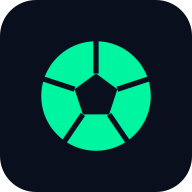
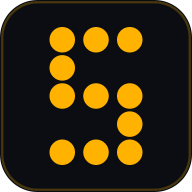
Identidade visual própria: 'Placar Eletrônico'
- Paleta enxuta com regras semânticas: âmbar #FFB300 (assinatura),
  azul-aço (lado B), verde só p/ vitória/acerto, vermelho p/ derrota,
  dourado-claro p/ placar exato — fim do arco-íris neon
- Logomarca própria: monograma 'S' em dot-matrix (pontos de letreiro
  de estádio) em SVG, do favicon ao ícone 512 do PWA
- Tipografia display: Archivo (no lugar da Space Grotesk)
- Fundo grafite de estádio à noite, auroras suaves âmbar/aço
- Gradientes, botões, scrollbar, glass hover e gráficos (ranking,
  janelas de gol, confederações, sedes) na nova paleta
- manifest do PWA com as novas cores; favicon novo (app/icon.png)

diff --git a/src/app/globals.css b/src/app/globals.css
@@ -1,26 +1,29 @@
 @import "tailwindcss";
 
 /* =========================================================
-   StudoWorldCup — Design System v2 "Futebol Futurista"
-   Dark glassmorphism · auroras neon · inner glow · bento
+   StudoWorldCup — Design System v3 "Placar Eletrônico"
+   Grafite de estádio à noite · âmbar de letreiro · dot-matrix
+   Regras: âmbar = marca/destaque · verde = vitória/acerto ·
+   vermelho = derrota/perigo · dourado-claro = placar exato.
    ========================================================= */
 
 :root {
   /* Base */
-  --background: #05070f;
-  --surface: #0b1020;
-  --surface-2: #111a30;
-  --foreground: #eaf0ff;
-  --muted: #8ea0c6;
-  --border: rgba(140, 160, 205, 0.14);
+  --background: #0b0d12;
+  --surface: #11141b;
+  --surface-2: #1a1f2a;
+  --foreground: #edede6;
+  --muted: #8c92a3;
+  --border: rgba(160, 170, 190, 0.14);
 
-  /* Acentos neon (identidade vibrante 2026) */
-  --brand: #00f5a0;     /* verde-esmeralda elétrico */
-  --brand-2: #2fb8ff;   /* azul ciano */
-  --accent: #ff2d78;    /* magenta */
-  --violet: #a779ff;    /* violeta */
-  --gold: #ffd24a;      /* dourado/troféu */
-  --danger: #ff5c6c;
+  /* Identidade */
+  --brand: #ffb300;     /* âmbar de painel — assinatura */
+  --brand-2: #4e8ec9;   /* azul-aço — lado B nas comparações */
+  --accent: #ff7849;    /* coral — destaques quentes secundários */
+  --violet: #a18be6;    /* violeta suave — chips informativos */
+  --gold: #ffce4f;      /* placar exato / troféu */
+  --success: #3ddc84;   /* vitória / acerto */
+  --danger: #e5484d;    /* derrota / perigo */
 
   --radius: 18px;
 }
@@ -37,6 +40,7 @@
   --color-accent: var(--accent);
   --color-violet: var(--violet);
   --color-gold: var(--gold);
+  --color-success: var(--success);
   --color-danger: var(--danger);
 
   --font-sans: var(--font-geist-sans);
@@ -78,10 +82,9 @@ h1, h2, h3, .font-display {
   inset: -20%;
   z-index: -2;
   background:
-    radial-gradient(40% 35% at 12% 8%, rgba(0, 245, 160, 0.16), transparent 60%),
-    radial-gradient(38% 34% at 88% 6%, rgba(47, 184, 255, 0.16), transparent 60%),
-    radial-gradient(45% 40% at 78% 92%, rgba(255, 45, 120, 0.13), transparent 60%),
-    radial-gradient(40% 38% at 18% 88%, rgba(167, 121, 255, 0.12), transparent 60%);
+    radial-gradient(42% 36% at 14% 6%, rgba(255, 179, 0, 0.09), transparent 60%),
+    radial-gradient(40% 36% at 86% 10%, rgba(78, 142, 201, 0.08), transparent 60%),
+    radial-gradient(45% 40% at 70% 94%, rgba(255, 179, 0, 0.05), transparent 60%);
   filter: blur(20px);
   animation: aurora 22s ease-in-out infinite alternate;
 }
@@ -122,13 +125,13 @@ h1, h2, h3, .font-display {
 }
 .glass-hover:hover {
   transform: translateY(-4px);
-  border-color: rgba(0, 245, 160, 0.4);
+  border-color: rgba(255, 179, 0, 0.38);
   box-shadow:
-    0 18px 50px -16px rgba(0, 245, 160, 0.32),
+    0 18px 50px -16px rgba(255, 179, 0, 0.22),
     inset 0 1px 0 rgba(255, 255, 255, 0.08);
 }
 
-/* Borda gradiente neon (usar em destaque) */
+/* Borda de destaque (âmbar do letreiro) */
 .neon-border {
   position: relative;
 }
@@ -138,17 +141,17 @@ h1, h2, h3, .font-display {
   inset: 0;
   padding: 1px;
   border-radius: inherit;
-  background: linear-gradient(120deg, var(--brand), var(--brand-2), var(--violet), var(--accent));
+  background: linear-gradient(120deg, var(--brand), rgba(255, 179, 0, 0.25), var(--brand-2));
   -webkit-mask: linear-gradient(#000 0 0) content-box, linear-gradient(#000 0 0);
   -webkit-mask-composite: xor;
   mask-composite: exclude;
-  opacity: 0.6;
+  opacity: 0.55;
   pointer-events: none;
 }
 
 /* ===== Texto ===== */
 .text-gradient {
-  background: linear-gradient(110deg, var(--brand), var(--brand-2) 45%, var(--violet) 75%, var(--accent));
+  background: linear-gradient(110deg, var(--brand), var(--gold) 55%, #ffe9b3);
   background-size: 200% auto;
   -webkit-background-clip: text;
   background-clip: text;
@@ -156,7 +159,7 @@ h1, h2, h3, .font-display {
   animation: gradient-pan 6s linear infinite;
 }
 .text-glow {
-  text-shadow: 0 0 24px rgba(0, 245, 160, 0.35);
+  text-shadow: 0 0 24px rgba(255, 179, 0, 0.35);
 }
 
 @keyframes gradient-pan {
@@ -166,16 +169,16 @@ h1, h2, h3, .font-display {
 /* ===== Botão ===== */
 .btn-brand {
   position: relative;
-  background: linear-gradient(120deg, var(--brand), var(--brand-2));
-  color: #03130c;
+  background: linear-gradient(120deg, #ffc233, var(--brand));
+  color: #1a1205;
   font-weight: 600;
-  box-shadow: 0 8px 28px -10px rgba(0, 245, 160, 0.6);
+  box-shadow: 0 8px 28px -10px rgba(255, 179, 0, 0.55);
   transition: filter 0.2s ease, transform 0.15s ease, box-shadow 0.2s ease;
 }
 .btn-brand:hover {
-  filter: brightness(1.08);
+  filter: brightness(1.06);
   transform: translateY(-2px);
-  box-shadow: 0 14px 40px -10px rgba(0, 245, 160, 0.7);
+  box-shadow: 0 14px 40px -10px rgba(255, 179, 0, 0.65);
 }
 .btn-brand:active {
   transform: translateY(0);
@@ -184,7 +187,7 @@ h1, h2, h3, .font-display {
 /* ===== Scrollbar ===== */
 ::-webkit-scrollbar { width: 10px; height: 10px; }
 ::-webkit-scrollbar-thumb {
-  background: linear-gradient(var(--brand), var(--brand-2));
+  background: linear-gradient(var(--brand), #b97f00);
   border-radius: 999px;
   border: 2px solid var(--background);
 }

diff --git a/src/components/charts/goals-window-chart.tsx b/src/components/charts/goals-window-chart.tsx
@@ -18,12 +18,12 @@ export function GoalsWindowChart({ data }: { data: WindowDatum[] }) {
     <ResponsiveContainer width="100%" height={280}>
       <BarChart data={data} margin={{ top: 10, right: 8, left: -18, bottom: 0 }}>
         <CartesianGrid strokeDasharray="3 3" stroke="rgba(140,160,205,0.12)" />
-        <XAxis dataKey="janela" stroke="#8ea0c6" fontSize={12} tickLine={false} axisLine={false} />
-        <YAxis stroke="#8ea0c6" fontSize={12} tickLine={false} axisLine={false} allowDecimals={false} />
+        <XAxis dataKey="janela" stroke="#8c92a3" fontSize={12} tickLine={false} axisLine={false} />
+        <YAxis stroke="#8c92a3" fontSize={12} tickLine={false} axisLine={false} allowDecimals={false} />
         <Tooltip
           cursor={{ fill: "rgba(140,160,205,0.08)" }}
           contentStyle={{
-            background: "#0b1020",
+            background: "#11141b",
             border: "1px solid rgba(140,160,205,0.2)",
             borderRadius: 12,
             color: "#eaf0ff",
@@ -31,10 +31,10 @@ export function GoalsWindowChart({ data }: { data: WindowDatum[] }) {
         />
         <Legend
           iconType="circle"
-          formatter={(v) => <span style={{ color: "#8ea0c6", fontSize: 12 }}>{v}</span>}
+          formatter={(v) => <span style={{ color: "#8c92a3", fontSize: 12 }}>{v}</span>}
         />
-        <Bar dataKey="marcados" name="Marcados" fill="#00f5a0" radius={[6, 6, 0, 0]} />
-        <Bar dataKey="sofridos" name="Sofridos" fill="#ff2d78" radius={[6, 6, 0, 0]} />
+        <Bar dataKey="marcados" name="Marcados" fill="#ffb300" radius={[6, 6, 0, 0]} />
+        <Bar dataKey="sofridos" name="Sofridos" fill="#4e8ec9" radius={[6, 6, 0, 0]} />
       </BarChart>
     </ResponsiveContainer>
   );

diff --git a/src/components/charts/ranking-chart.tsx b/src/components/charts/ranking-chart.tsx
@@ -11,7 +11,7 @@ import {
   YAxis,
 } from "recharts";
 
-const CORES = ["#00f5a0", "#2fb8ff", "#ffd24a", "#ff2d78", "#a779ff", "#8ea0c6", "#ff9f43", "#00d2d3"];
+const CORES = ["#ffb300", "#4e8ec9", "#3ddc84", "#e5484d", "#a18be6", "#ffce4f", "#8c92a3", "#ff7849"];
 
 export type DiaEvolucao = { dia: string } & Record<string, number | string>;
 
@@ -21,11 +21,11 @@ export function RankingChart({ dias, nomes }: { dias: DiaEvolucao[]; nomes: stri
     <ResponsiveContainer width="100%" height={300}>
       <LineChart data={dias} margin={{ top: 10, right: 12, left: -18, bottom: 0 }}>
         <CartesianGrid strokeDasharray="3 3" stroke="rgba(140,160,205,0.12)" />
-        <XAxis dataKey="dia" stroke="#8ea0c6" fontSize={12} tickLine={false} axisLine={false} />
-        <YAxis stroke="#8ea0c6" fontSize={12} tickLine={false} axisLine={false} allowDecimals={false} />
+        <XAxis dataKey="dia" stroke="#8c92a3" fontSize={12} tickLine={false} axisLine={false} />
+        <YAxis stroke="#8c92a3" fontSize={12} tickLine={false} axisLine={false} allowDecimals={false} />
         <Tooltip
           contentStyle={{
-            background: "#0b1020",
+            background: "#11141b",
             border: "1px solid rgba(140,160,205,0.2)",
             borderRadius: 12,
             color: "#eaf0ff",
@@ -33,7 +33,7 @@ export function RankingChart({ dias, nomes }: { dias: DiaEvolucao[]; nomes: stri
         />
         <Legend
           iconType="circle"
-          formatter={(v) => <span style={{ color: "#8ea0c6", fontSize: 12 }}>{v}</span>}
+          formatter={(v) => <span style={{ color: "#8c92a3", fontSize: 12 }}>{v}</span>}
         />
         {nomes.map((nome, i) => (
           <Line

diff --git a/src/components/brand.tsx b/src/components/brand.tsx
@@ -1,14 +1,35 @@
-import { Trophy } from "lucide-react";
 import Link from "next/link";
+
+/**
+ * Identidade "Placar Eletrônico": monograma "S" em dot-matrix âmbar
+ * (pontos de letreiro de estádio) + wordmark em caixa alta.
+ */
+export function MarcaS({ className = "h-5 w-5" }: { className?: string }) {
+  // grade 3×5 do "S": pontos acesos do painel
+  const acesos: [number, number][] = [
+    [0, 0], [1, 0], [2, 0],
+    [0, 1],
+    [0, 2], [1, 2], [2, 2],
+    [2, 3],
+    [0, 4], [1, 4], [2, 4],
+  ];
+  return (
+    <svg viewBox="0 0 28 44" className={className} aria-hidden>
+      {acesos.map(([c, r]) => (
+        <circle key={`${c}-${r}`} cx={6 + c * 8} cy={6 + r * 8} r={2.9} fill="currentColor" />
+      ))}
+    </svg>
+  );
+}
 
 export function Logo({ href = "/" }: { href?: string }) {
   return (
-    <Link href={href} className="flex items-center gap-2.5 group">
-      <span className="grid place-items-center h-9 w-9 rounded-xl btn-brand shadow-lg shadow-brand/20">
-        <Trophy className="h-5 w-5" strokeWidth={2.4} />
+    <Link href={href} className="group flex items-center gap-2.5">
+      <span className="grid h-9 w-9 place-items-center rounded-xl border border-brand/35 bg-surface text-brand shadow-lg shadow-brand/10 transition group-hover:border-brand/60">
+        <MarcaS className="h-5 w-auto" />
       </span>
-      <span className="font-semibold text-lg tracking-tight">
-        Studo<span className="text-gradient">WorldCup</span>
+      <span className="font-display text-lg font-extrabold uppercase tracking-tight">
+        Studo<span className="text-brand">WorldCup</span>
       </span>
     </Link>
   );

diff --git a/src/components/charts/simple-bar-chart.tsx b/src/components/charts/simple-bar-chart.tsx
@@ -14,7 +14,7 @@ export type BarDatum = { label: string; value: number; color?: string };
 
 export function SimpleBarChart({
   data,
-  color = "#00f5a0",
+  color = "#ffb300",
   height = 280,
 }: {
   data: BarDatum[];
@@ -24,12 +24,12 @@ export function SimpleBarChart({
   return (
     <ResponsiveContainer width="100%" height={height}>
       <BarChart data={data} margin={{ top: 10, right: 8, left: -18, bottom: 0 }}>
-        <XAxis dataKey="label" stroke="#8ea0c6" fontSize={12} tickLine={false} axisLine={false} />
-        <YAxis stroke="#8ea0c6" fontSize={12} tickLine={false} axisLine={false} />
+        <XAxis dataKey="label" stroke="#8c92a3" fontSize={12} tickLine={false} axisLine={false} />
+        <YAxis stroke="#8c92a3" fontSize={12} tickLine={false} axisLine={false} />
         <Tooltip
           cursor={{ fill: "rgba(140,160,205,0.08)" }}
           contentStyle={{
-            background: "#0b1020",
+            background: "#11141b",
             border: "1px solid rgba(140,160,205,0.2)",
             borderRadius: 12,
             color: "#eaf0ff",

diff --git a/src/app/layout.tsx b/src/app/layout.tsx
@@ -1,5 +1,5 @@
 import type { Metadata } from "next";
-import { Geist, Geist_Mono, Space_Grotesk } from "next/font/google";
+import { Archivo, Geist, Geist_Mono } from "next/font/google";
 import { Analytics } from "@vercel/analytics/next";
 import "./globals.css";
 
@@ -13,10 +13,10 @@ const geistMono = Geist_Mono({
   subsets: ["latin"],
 });
 
-const spaceGrotesk = Space_Grotesk({
+const archivo = Archivo({
   variable: "--font-display",
   subsets: ["latin"],
-  weight: ["500", "600", "700"],
+  weight: ["600", "700", "800", "900"],
 });
 
 export const metadata: Metadata = {
@@ -34,7 +34,7 @@ export default function RootLayout({
   return (
     <html
       lang="pt-BR"
-      className={`${geistSans.variable} ${geistMono.variable} ${spaceGrotesk.variable} h-full antialiased`}
+      className={`${geistSans.variable} ${geistMono.variable} ${archivo.variable} h-full antialiased`}
     >
       <body className="app-bg min-h-full flex flex-col">
         {children}

diff --git a/src/lib/worldcup/api.ts b/src/lib/worldcup/api.ts
@@ -403,16 +403,16 @@ export async function getConfederationBreakdown(): Promise<
 > {
   const teams = await getTeams();
   const cores: Record<string, string> = {
-    UEFA: "#2fb8ff",
-    CONMEBOL: "#00f5a0",
-    CONCACAF: "#ffd24a",
-    CAF: "#ff2d78",
-    AFC: "#a779ff",
-    OFC: "#8ea0c6",
+    UEFA: "#4e8ec9",
+    CONMEBOL: "#3ddc84",
+    CONCACAF: "#ffb300",
+    CAF: "#e5484d",
+    AFC: "#a18be6",
+    OFC: "#8c92a3",
   };
   const counts = new Map<string, number>();
   for (const t of teams) counts.set(t.confed, (counts.get(t.confed) ?? 0) + 1);
   return [...counts.entries()]
-    .map(([name, value]) => ({ name, value, color: cores[name] ?? "#8ea0c6" }))
+    .map(([name, value]) => ({ name, value, color: cores[name] ?? "#8c92a3" }))
     .sort((a, b) => b.value - a.value);
 }

diff --git a/src/components/charts/donut-chart.tsx b/src/components/charts/donut-chart.tsx
@@ -10,7 +10,7 @@ export function DonutChart({ data, height = 280 }: { data: DonutSlice[]; height?
       <PieChart>
         <Tooltip
           contentStyle={{
-            background: "#0b1020",
+            background: "#11141b",
             border: "1px solid rgba(140,160,205,0.2)",
             borderRadius: 12,
             color: "#eaf0ff",
@@ -19,7 +19,7 @@ export function DonutChart({ data, height = 280 }: { data: DonutSlice[]; height?
         <Legend
           verticalAlign="bottom"
           iconType="circle"
-          formatter={(v) => <span style={{ color: "#8ea0c6", fontSize: 12 }}>{v}</span>}
+          formatter={(v) => <span style={{ color: "#8c92a3", fontSize: 12 }}>{v}</span>}
         />
         <Pie
           data={data}

diff --git a/src/app/painel/estatisticas/page.tsx b/src/app/painel/estatisticas/page.tsx
@@ -13,9 +13,9 @@ import {
 } from "@/lib/worldcup";
 
 const PAIS_COR: Record<string, string> = {
-  "Estados Unidos": "#2fb8ff",
-  Canadá: "#ff2d78",
-  México: "#00f5a0",
+  "Estados Unidos": "#4e8ec9",
+  Canadá: "#e5484d",
+  México: "#3ddc84",
 };
 
 export default async function EstatisticasPage() {
@@ -84,7 +84,7 @@ export default async function EstatisticasPage() {
 
       <div className="mt-6 grid gap-6 lg:grid-cols-2">
         <Card titulo="Jogos por fase">
-          <SimpleBarChart data={faseData} color="#2fb8ff" />
+          <SimpleBarChart data={faseData} color="#4e8ec9" />
         </Card>
         <Card titulo="Estatísticas de jogo">
           <EmptyState

diff --git a/src/app/manifest.ts b/src/app/manifest.ts
@@ -8,8 +8,8 @@ export default function manifest(): MetadataRoute.Manifest {
       "Estatísticas em tempo real da Copa do Mundo 2026 e bolão com seus amigos.",
     start_url: "/painel",
     display: "standalone",
-    background_color: "#0a0f1e",
-    theme_color: "#0a0f1e",
+    background_color: "#0b0d12",
+    theme_color: "#0b0d12",
     icons: [
       { src: "/icon-192.png", sizes: "192x192", type: "image/png" },
       { src: "/icon-512.png", sizes: "512x512", type: "image/png" },
